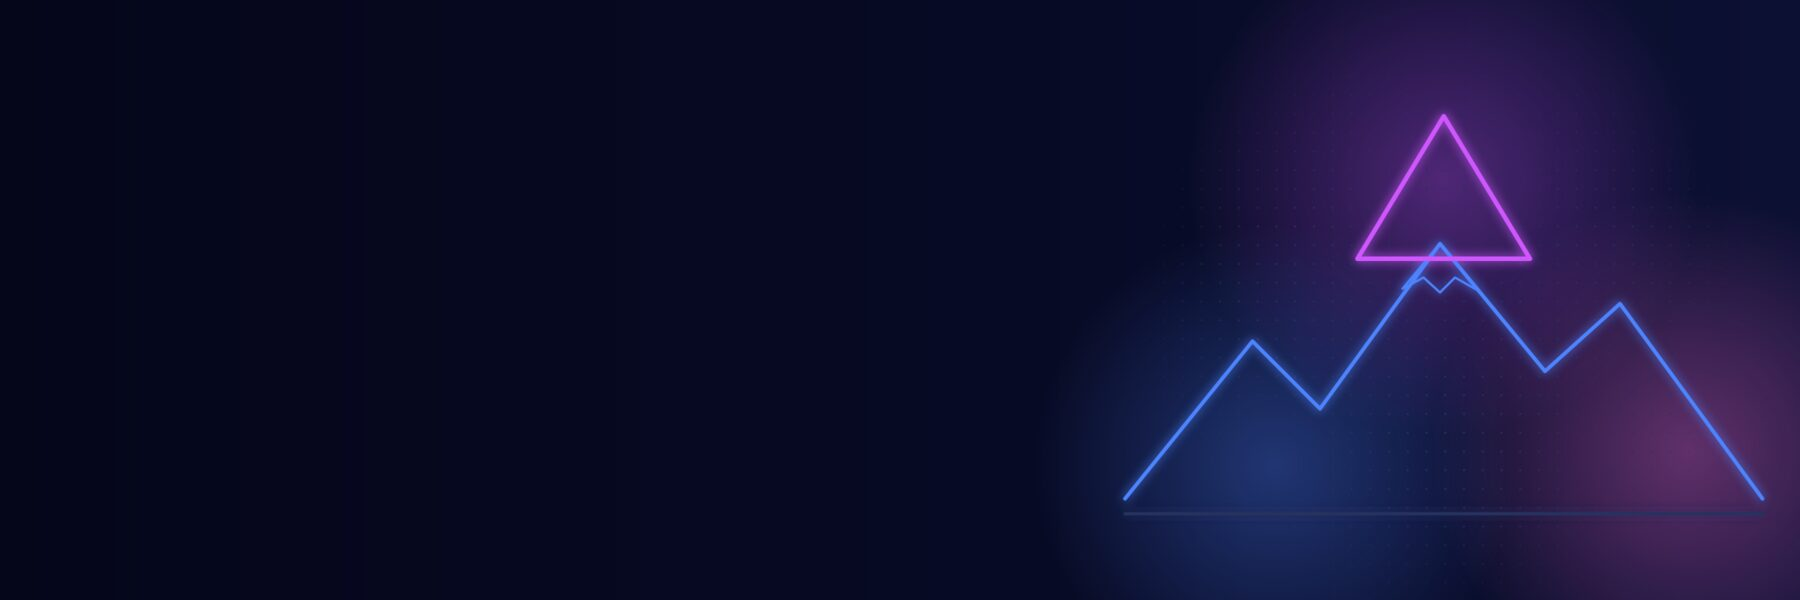
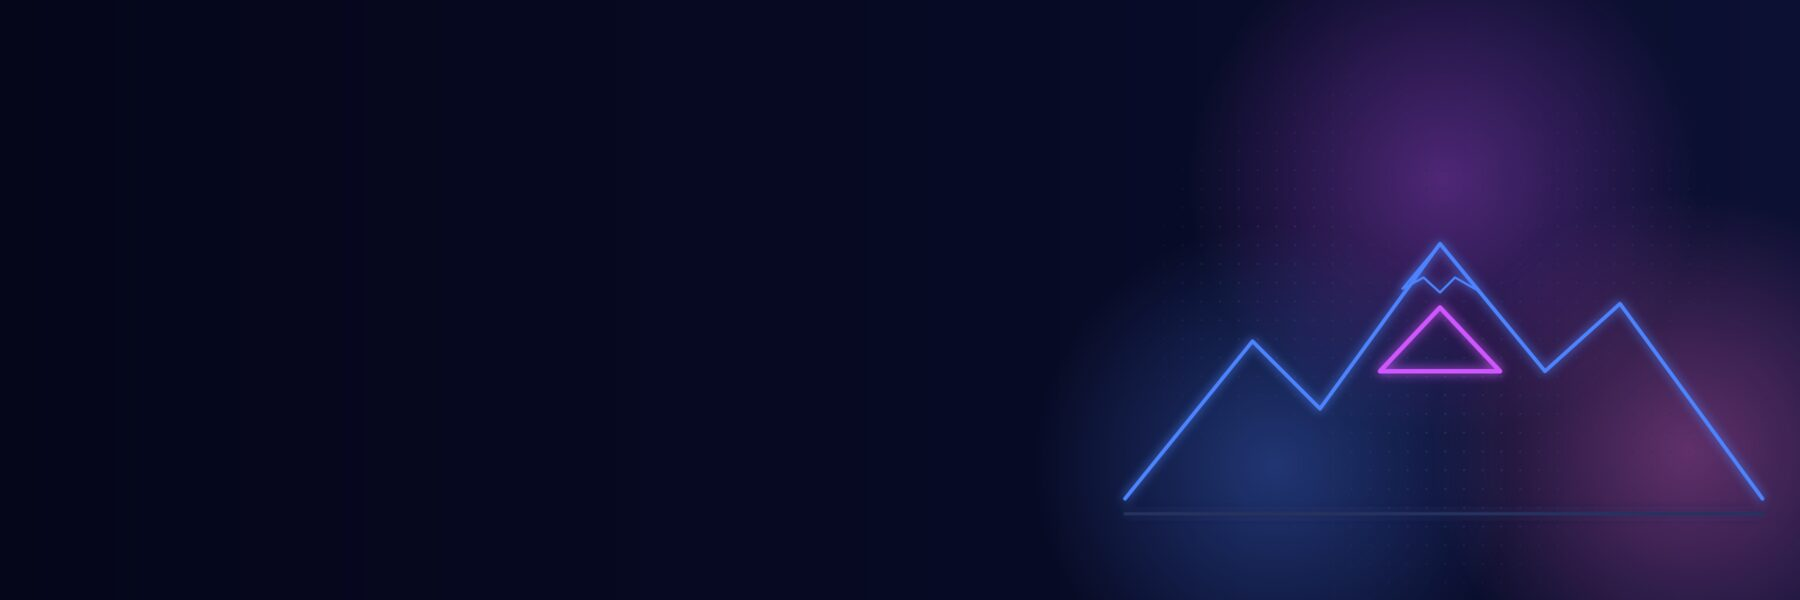
Homepage repositioning, AI Integration, examples, data page and founder photo
- Homepage: new headline and subline, "One Connected System" services with
  pillar labels, "What This Looks Like" example cases; Sergei strip and
  View All Services button removed
- AI Tools renamed AI Integration (/services/ai-tools/ redirects)
- Services page lists each service plus a one-time vs ongoing explainer;
  Operations Automation says who does what; Development Management stresses
  ongoing value
- New pages: sample check-up report, How We Handle Your Data
- About: founder photo beside shorter text, triangle inside the mountains,
  email removed from Let's Talk, tighter spacing
- Who We Help page fully dark; bigger logo; larger text on phones
- Ignore the local Photo folder

Changed region(s): [[0.7467, 0.18, 0.8711, 0.45], [0.7467, 0.51, 0.84, 0.63]]

diff --git a/assets/scss/style.scss b/assets/scss/style.scss
@@ -154,5 +154,61 @@
 @media (max-width: 767.98px) { .hero-image[style*=".svg"] { background-position: 15% center; } }
 // Service icons are CSS backgrounds (decorative); same 40px square the theme gave the img
 .service-summary .service-image { height: 40px; background: center / contain no-repeat; }
-// Homepage: what we do and where, as a small first line of the H1 so search engines read it with the slogan
-.hero-image .hero-text .hero-topic { display: block; font-size: 1.1rem; font-weight: 400; text-transform: uppercase; letter-spacing: .08em; margin-bottom: .75rem; }
+// Homepage: the subline right under the headline, set apart from the intro below it
+.hero-image .hero-text .hero-tagline { font-weight: 600; margin-bottom: .5rem; }
+// Logo: the "Glow Wild" sign at its full drawn size (theme had 120px); phones show the whole sign too, not just the mark
+.logo { display: block; width: 170px; @include media-breakpoint-up(sm) { width: 210px; } }
+.logo-mobile { display: none; }
+// Phones: larger body and card text (theme set much of it at 14-15px)
+@media (max-width: 767.98px) {
+  body { font-size: 1.0625rem; }
+  .service-summary .service-content p, .work-summary .work-content p, .footer ul li, .sub-footer .sub-footer-inner ul li { font-size: 1rem; }
+  .button { font-size: 16px; }
+}
+.visually-hidden { @include visually-hidden(); }
+// Service step label ("Visibility", ...) and the homepage line joining them, in each service's WILD color
+.service-pillar { text-transform: uppercase; letter-spacing: .1em; font-size: .8rem !important; font-weight: 700; margin-bottom: 0; }
+.system-flow { font-size: 1.25rem; font-weight: 700; }
+@each $i, $c in (0: $wild-green-deep, 1: $wild-pink-deep, 2: $wild-blue-deep, 3: $wild-purple-deep) {
+  .service-summary.wild-#{$i} .service-pillar, .service-detail.wild-#{$i} .service-pillar, .system-flow .wild-#{$i} { color: $c !important; }
+  .service-detail.wild-#{$i} { border-left: 4px solid $c; h2 a { color: $c; } }
+  .example-card.wild-#{$i} { border-top: 4px solid $c; .example-label { color: $c; } }
+}
+// Services page: one block per service
+.service-detail {
+  padding: 4px 0 4px 20px; margin-bottom: 40px;
+  h2 { font-size: 1.75rem; margin-bottom: 4px; }
+  .service-detail-sub { display: block; font-size: 1rem; font-weight: 400; color: #555; margin-top: 4px; }
+  .service-detail-lead { font-weight: 600; }
+}
+// Homepage examples
+.example-card {
+  height: 100%; padding: 24px; background: #f5f6fb; border-radius: 0 0 12px 12px;
+  .example-label { text-transform: uppercase; letter-spacing: .1em; font-size: .8rem; font-weight: 700; margin-bottom: 6px; }
+  ol { padding-left: 20px; list-style: decimal; }
+  li { margin-bottom: 6px; }
+  .example-result { font-weight: 600; }
+  a { text-decoration: underline; }
+}
+// Markdown tables (services explainer, sample check-up)
+.content table { width: 100%; margin: 16px 0 24px; border-collapse: collapse; font-size: .95rem; }
+.content th, .content td { text-align: left; vertical-align: top; padding: 10px 12px; border-bottom: 1px solid #d5d8ea; }
+.content thead th { border-bottom: 2px solid $primary; }
+// Who We Help list: the whole page dark like its banner and card pictures; titles in the neon colors
+.page-work-list {
+  .wrapper { background: #060818; }
+  .work-summary .work-content { background: #0d1030; }
+  .work-summary .work-content p, .work-summary .work-content { color: #e8e9f5; }
+}
+@each $i, $c in (0: $wild-green, 1: $wild-pink, 2: $wild-blue, 3: $wild-purple) {
+  .page-work-list .work-summary.wild-#{$i} .work-title a { color: $c; }
+  .page-work-list .work-summary.wild-#{$i} .work-content { border-bottom-color: $c; }
+}
+// About strips with a `photo`: above the text on phones, beside it on desktop (a reversed row puts it on the right).
+// Its background is painted the strip's navy, so it blends in without a frame; on desktop it may run under the text's edge
+.strip-photo { margin-bottom: 24px; img { display: block; width: 100%; max-width: 340px; height: auto; } }
+@media (min-width: 768px) {
+  .row:has(> .strip-photo) { flex-direction: row-reverse; align-items: center; }
+  .strip-photo { margin-bottom: 0; img { max-width: none; width: 120%; margin-left: -20%; } }
+  .strip-photo + div { position: relative; z-index: 1; }
+}

diff --git a/layouts/index.html b/layouts/index.html
@@ -5,44 +5,50 @@
 
 {{ define "main" }}
 
-{{ partial "hero-image-fullscreen.html" (dict "background" .Params.heroBackground "topic" .Params.heroTopic "heading" .Params.heroHeading "subheading" .Params.heroSubHeading "content" .)}}
-
-{{ $headless := .Site.GetPage "/homepage" }}
-{{ $reusablePages := $headless.Resources.ByType "page" }}
-{{ $reusablePages := sort $reusablePages ".Params.weight" }}
-{{ range first 1 $reusablePages }}
-{{ $phone := .Params.phoneBackground }}
-<div class="strip bg-cover bg-position-top bg-overlay wild-0"{{ with .Params.background }} style="background-image: url('{{ . | relURL }}');{{ with $phone }} --bg-phone: url('{{ . | relURL }}');{{ end }}"{{ end }}>
-  <div class="container pt-17 pb-17">
-    <div class="row">
-      <div class="col-12 col-md-6 offset-md-6">
-        <h2 class="text-primary text-capitalize">{{ .Title }}</h2>
-        {{ .Content }}
-        <a class="button" href="{{ .Params.buttonLink | relURL }}">{{ .Params.button }}</a>
-      </div>
-    </div>
-  </div>
-</div>
-{{ end }}
+{{ partial "hero-image-fullscreen.html" (dict "background" .Params.heroBackground "tagline" .Params.heroTagline "heading" .Params.heroHeading "subheading" .Params.heroSubHeading "content" .)}}
 
 {{ $services := where (where .Site.RegularPages "Type" "services") ".Params.featured" true }}
 {{if gt (len $services) 0}}
 <div class="container pt-8 pb-8 pb-md-14 pt-md-14">
   <div class="row justify-content-start">
-    <div class="col-12">
-      <h2 class="text-center mb-3">{{ with .Site.GetPage "/services/" }}{{ .Title | default "Our Services" }}{{ end }}</h2>
+    <div class="col-12 text-center mb-3">
+      <h2>One Connected System</h2>
+      {{/* The four services as steps of one system: each card's `pillar` from its front matter */}}
+      <p class="system-flow">{{ range $i, $s := sort $services ".Params.weight" }}{{ if $i }}<span aria-hidden="true"> → </span>{{ end }}<span class="wild-{{ mod (sub $s.Weight 1) 4 }}">{{ $s.Params.pillar }}</span>{{ end }}</p>
+      <p>Customers find you, smart tools answer them, the admin runs itself, and we keep improving what works. Each service feeds the next.</p>
     </div>
     {{ range first 4 (sort $services ".Params.weight") }}
     <div class="col-12 col-md-6 mb-1">
       {{ .Render "summary" }}
     </div>
     {{ end }}
-    <div class="col-12 text-center">
-      <a class="button button-primary" href="{{ .Site.BaseURL }}services/">View All Services</a>
-    </div>
   </div>
 </div>
 {{end}}
+
+{{/* Demonstrations, not client results: data/examples.yaml */}}
+{{ with hugo.Data.examples }}
+<div class="container pb-8 pb-md-14">
+  <div class="row">
+    <div class="col-12 text-center mb-3">
+      <h2>What This Looks Like</h2>
+      <p>Three examples of how it works day to day. These are demonstrations, not client stories.</p>
+    </div>
+    {{ range $i, $e := . }}
+    <div class="col-12 col-lg-4 mb-3">
+      <div class="example-card wild-{{ mod $i 4 }}">
+        <p class="example-label">Example</p>
+        <h3 class="h4">{{ $e.title }}</h3>
+        <p>{{ $e.problem }}</p>
+        <ol>{{ range $e.steps }}<li>{{ . }}</li>{{ end }}</ol>
+        <p class="example-result">{{ $e.result }}</p>
+        {{ with $e.link }}<a href="{{ .url | relURL }}">{{ .text }}</a>{{ end }}
+      </div>
+    </div>
+    {{ end }}
+  </div>
+</div>
+{{ end }}
 
 {{ with hugo.Data.testimonials }}
 <div class="container pb-8 pb-md-14">
@@ -60,7 +66,8 @@
 </div>
 {{ end }}
 
-{{ range first 1 (after 1 $reusablePages) }}
+{{ $headless := .Site.GetPage "/homepage" }}
+{{ range sort ($headless.Resources.ByType "page") ".Params.weight" }}
 <div class="strip bg-primary bg-cover bg-position-top bg-overlay"{{ with .Params.background }} style='background-image: url("{{ . | relURL }}");'{{ end }}>
   <div class="container pt-8 pb-8 pb-md-12 pt-md-12">
     <div class="row justify-content-center">

diff --git a/layouts/services/list.html b/layouts/services/list.html
@@ -1,0 +1,31 @@
+{{ define "header_css" }}{{ end }}
+{{ define "body_classes" }}page-services-list{{ end }}
+{{ define "header_classes" }}{{ end }}
+
+{{ define "main" }}
+{{ partial "hero-image-setheight.html" (dict "background" .Params.heroBackground "heading" .Params.heroHeading "subheading" .Params.heroSubHeading "content" .)}}
+
+{{/* One row per service: what it is, its plain-words heading, its first paragraph and a link to the full list */}}
+<div class="container pt-6 pt-md-10">
+  {{ range .Pages.ByWeight }}
+  <div class="service-detail wild-{{ mod (sub .Weight 1) 4 }}">
+    {{ with .Params.pillar }}<p class="service-pillar">{{ . }}</p>{{ end }}
+    <h2><a href="{{ .RelPermalink }}">{{ .Title }}</a>{{ with .Params.heroHeading }}<span class="service-detail-sub">{{ . }}</span>{{ end }}</h2>
+    <p class="service-detail-lead">{{ .Params.heroSubHeading }}</p>
+    {{ with findRE `(?s)<p>.*?</p>` .Content 1 }}{{ index . 0 | safeHTML }}{{ end }}
+    <a href="{{ .RelPermalink }}">See what’s included<span class="visually-hidden"> in {{ .Title }}</span> →</a>
+  </div>
+  {{ end }}
+</div>
+
+{{ with .Content }}
+<div class="container pb-6 pb-md-10">
+  <div class="row">
+    <div class="col-12 col-lg-9">
+      <div class="content">{{ . }}</div>
+      {{ partial "cta.html" "mt-2" }}
+    </div>
+  </div>
+</div>
+{{ end }}
+{{ end }}

diff --git a/layouts/pages/about.html b/layouts/pages/about.html
@@ -11,9 +11,15 @@
 {{ range $i, $_ := $subpages }}
 {{ $phone := .Params.phoneBackground }}
 <div class="strip bg-cover bg-position-top bg-overlay wild-{{ mod $i 4 }} align-{{ .Params.align | default "left" }}"{{ with .Params.background }} style="background-image: url('{{ . | relURL }}');{{ with $phone }} --bg-phone: url('{{ . | relURL }}');{{ end }}"{{ end }}>
-  <div class="container pt-17 pb-17">
+  {{/* Tall padding only where a background picture needs the room; text and photo strips sit closer together */}}
+  <div class="container {{ if .Params.background }}pt-17 pb-17{{ else }}pt-6 pb-6{{ end }}">
     <div class="row">
-      <div class="col-12 col-md-6 {{ if eq .Params.align "right" }}offset-md-6{{ end }}">
+      {{ if .Params.photo }}
+      <div class="col-12 col-md-6 strip-photo">
+        <img src="{{ .Params.photo | relURL }}" alt="{{ .Params.photoAlt }}" width="840" height="840" loading="lazy" decoding="async">
+      </div>
+      {{ end }}
+      <div class="col-12 col-md-6 {{ if and (eq .Params.align "right") (not .Params.photo) }}offset-md-6{{ end }}">
         <h2 class="text-primary text-capitalize">{{ .Title }}</h2>
         {{ .Content }}
         {{ if .Params.button }}

diff --git a/layouts/contact/contact.html b/layouts/contact/contact.html
@@ -54,7 +54,7 @@
         <input type="hidden" name="_subject" value="New check-up request from glowilds.com">
         <input type="text" name="_gotcha" tabindex="-1" autocomplete="off" aria-hidden="true" style="display:none">
         <button class="button contact-submit" type="submit">Book a Free Check-Up</button>
-        <p class="contact-privacy-note">We only use your details to reply to you. See our <a href="{{ "privacy/" | relURL }}">Privacy Policy</a>.</p>
+        <p class="contact-privacy-note">We only use your details to reply to you. See our <a href="{{ "privacy/" | relURL }}">Privacy Policy</a> and <a href="{{ "your-data/" | relURL }}">how we handle your data</a>.</p>
       </form>
       {{ end }}
     </div>

diff --git a/layouts/partials/footer.html b/layouts/partials/footer.html
@@ -14,6 +14,7 @@
             <li><a href="{{ .Site.BaseURL }}">Home</a></li>
             <li><a href="{{ .Site.BaseURL }}contact/">Contact</a></li>
             <li><a href="{{ .Site.BaseURL }}faq/">FAQ</a></li>
+            <li><a href="{{ .Site.BaseURL }}your-data/">Your Data</a></li>
             <li><a href="{{ .Site.BaseURL }}privacy/">Privacy</a></li>
             <li><a href="{{ .Site.BaseURL }}terms/">Terms</a></li>
             <li class="copyright">{{.Site.Title}}</li>

diff --git a/layouts/partials/hero-image-fullscreen.html b/layouts/partials/hero-image-fullscreen.html
@@ -1,7 +1,8 @@
 <div class="hero-image hero-image-fullscreen" style="background-image: url('{{ .background | relURL }}');">
   <div class="container ">
     <div class="hero-text">
-      <h1>{{ with .topic }}<span class="hero-topic">{{ . }}</span> {{ end }}{{ .heading }}</h1>
+      <h1>{{ .heading }}</h1>
+      {{ with .tagline }}<p class="hero-tagline">{{ . }}</p>{{ end }}
       <p>{{ .subheading }}</p>
       {{ partial "cta.html" "mt-2" }}
     </div>

diff --git a/layouts/services/summary.html b/layouts/services/summary.html
@@ -4,6 +4,7 @@
   <div class="service-image" style="background-image: url('{{ .Params.icon | relURL }}')"></div>
   {{ end }}
   <div class="service-content">
+    {{ with .Params.pillar }}<p class="service-pillar">{{ . }}</p>{{ end }}
     <h2 class="service-title">
       <a href="{{ .Permalink }}">{{ .Title }}</a>
     </h2>

diff --git a/design/drawings.py b/design/drawings.py
@@ -340,11 +340,11 @@ def hero_how():
 
 
 def hero_about():
-    """Colorado mountains with a glowing triangle above: stability, quality, support."""
+    """Colorado mountains with a glowing triangle inside the main peak: stability, quality, support."""
     a = f'<path d="M0 640 L170 430 L260 520 L420 300 L560 470 L660 380 L850 640" stroke="{B}"/>'
     a += f'<path d="M370 360 L420 300 L470 362 L440 345 L420 365 L398 345 Z" stroke="{B}" stroke-width="3"/>'
     a += f'<path d="M0 660 H850" stroke="{FAINT}" stroke-width="4"/>'
-    a += f'<path d="M425 130 L540 320 L310 320 Z" stroke="{U}" stroke-width="6"/>'
+    a += f'<path d="M420 385 L500 470 L340 470 Z" stroke="{U}" stroke-width="6"/>'  # the logo's triangle, glowing inside the main peak
     return hero_canvas(a, ((1925, 240, 340, U), (1700, 620, 320, B), (2250, 600, 340, P)))
 
 

diff --git a/CLAUDE.md b/CLAUDE.md
@@ -18,9 +18,9 @@ Pushing to `main` builds the site and publishes it to GitHub Pages (the custom d
 ## Architecture
 
 - **Theme overrides:** files under `layouts/` shadow the same path in `themes/hugo-hero-theme/layouts/`. To change a theme template, copy it into `layouts/` and edit the copy; never edit the theme. The theme copies only exist where something was changed.
-- **Headless bundles:** homepage sections come from `content/homepage/*.md`, and the About and How It Works page sections from `content/pages/{about,process}/content*.md`. They are ordered by `weight`, with a `background`, `button` and `buttonLink` in front matter, and rendered as "strips" by `layouts/index.html` and `layouts/pages/about.html`. Both pages use `layout: 'about'`. Optional `phoneBackground` (About and How It Works strips, and the homepage's first strip): a 2:1 picture that phones show whole above the text; setting it also makes desktop fit `background` whole and left-aligned instead of covering the strip. Use it for composed graphics, not photos. The How It Works pictures (`static/images/process-*.svg`), the Who We Help card pictures (`static/work/*-thumb.svg`) and the page banners (`static/images/hero-*.svg` plus `.jpg` copies for link previews, made with ImageMagick) are neon line drawings generated by `python3 design/drawings.py`; edit the script and rerun it rather than editing the SVGs, and rerun it after changing a step's `align` (it reads `align` to put the drawing on the other side). On desktop the picture sits opposite the text: the strip gets an `align-<left|right>` class from its `align`.
-- **Collections:** `content/services/` and `content/work/` (the "Who We Help" industries). Services marked `featured: true` show on the homepage. Each page sets `heroHeading`, `heroSubHeading` and `heroBackground`. Their single pages share `layouts/_default/section-single.html`, picked by a `cascade` in each section's `_index.md`. Cards (and service icons) take a WILD color from `weight`: 1 green, 2 pink, 3 blue, 4 purple.
-- **Site-wide data:** `data/contact.yaml` (email, phone, `formAction`, `owner`, `googleProfile` (added with the social links as `sameAs` in the homepage JSON-LD), address, `city`/`region` for the structured data, `areaServed` towns, hours) and `data/testimonials.yaml`. Templates hide a block while its value is empty: the phone, the contact form and the testimonials section all stay hidden until filled. Keep that pattern for new optional content. Testimonials must be real quotes.
+- **Headless bundles:** homepage sections come from `content/homepage/*.md`, and the About and How It Works page sections from `content/pages/{about,process}/content*.md`. They are ordered by `weight`, with a `background`, `button` and `buttonLink` in front matter, and rendered as "strips" by `layouts/index.html` and `layouts/pages/about.html`. Both pages use `layout: 'about'`. Optional `phoneBackground` (About and How It Works strips): a 2:1 picture that phones show whole above the text; setting it also makes desktop fit `background` whole and left-aligned instead of covering the strip. Use it for composed graphics, not photos. For a photo, set `photo` and `photoAlt` instead (About strips only): it sits beside the text (above it on phones), as on Meet the Founder. The How It Works pictures (`static/images/process-*.svg`), the Who We Help card pictures (`static/work/*-thumb.svg`) and the page banners (`static/images/hero-*.svg` plus `.jpg` copies for link previews, made with ImageMagick) are neon line drawings generated by `python3 design/drawings.py`; edit the script and rerun it rather than editing the SVGs, and rerun it after changing a step's `align` (it reads `align` to put the drawing on the other side). On desktop the picture sits opposite the text: the strip gets an `align-<left|right>` class from its `align`.
+- **Collections:** `content/services/` and `content/work/` (the "Who We Help" industries). Services marked `featured: true` show on the homepage, under "One Connected System" with their `pillar` label (Visibility, Intelligence, Automation, Improvement). The Services page (`layouts/services/list.html`) lists each with its first paragraph, then the `_index.md` body. Each page sets `heroHeading`, `heroSubHeading` and `heroBackground`. Their single pages share `layouts/_default/section-single.html`, picked by a `cascade` in each section's `_index.md`. Cards (and service icons) take a WILD color from `weight`: 1 green, 2 pink, 3 blue, 4 purple.
+- **Site-wide data:** `data/contact.yaml` (email, phone, `formAction`, `owner`, `googleProfile` (added with the social links as `sameAs` in the homepage JSON-LD), address, `city`/`region` for the structured data, `areaServed` towns, hours), `data/testimonials.yaml`, and `data/examples.yaml` (the homepage "What This Looks Like" demonstrations; keep them labeled as examples, never presented as client results). Templates hide a block while its value is empty: the phone, the contact form and the testimonials section all stay hidden until filled. Keep that pattern for new optional content. Testimonials must be real quotes.
 - **Booking button:** `layouts/partials/cta.html`, called as `{{ partial "cta.html" "<spacing class>" }}` from the homepage hero and the service and industry pages. The contact form's submit button has its own copy of the label.
 - **Meta and SEO:** `layouts/partials/seo.html` adds the canonical link plus homepage-only JSON-LD built from `data/contact.yaml`. Opening hours go into that JSON-LD only when written like `8:00am`; other values are skipped. `/llms.txt` (a plain-text summary for AI assistants) is built from `layouts/home.llms.txt`. Every page, the homepage included, gets its `<meta>` tags from `layouts/partials/meta-default.html`; the homepage's description and `seoTitle` are in `content/_index.md`.
 - **Images:** pages load `.webp` from `static/`. The `og:image` swaps `.webp` for `.jpg` when a JPG copy exists, so a hero image should ship as both `.webp` and `.jpg`. With only a `.webp`, the preview falls back to the WebP.

diff --git a/content/sample-check-up.md b/content/sample-check-up.md
@@ -1,0 +1,40 @@
+---
+title: 'Sample Business Check-Up'
+seoTitle: 'Sample Free Business Check-Up Report'
+description: 'An example of the free business check-up report every new Glow Wild client gets: what we check, what we found and what to fix first.'
+date: 2026-11-01
+---
+
+**This is an example.** "Maple Street Bakery" is made up. Your check-up looks at your own business the same way and comes back in the same plain format.
+
+## What we checked
+
+- How the business shows up when people search on Google, Google Maps, Apple Maps, Yelp and AI assistants such as ChatGPT
+- The website: speed on a phone, clear pages, contact details and the behind-the-scenes business data search engines read
+- Calls, messages and bookings: what happens when the owner can't pick up
+- Reviews: how many, how recent, and whether they get replies
+- The weekly admin: what takes the owner's time and could run on its own
+
+## What we found
+
+| Area | What we saw | Why it matters |
+|---|---|---|
+| Phone number | Google shows one number, Yelp and the website another | Customers call a line nobody answers |
+| Hours | Google still shows last year's holiday hours | People skip a visit they think is closed |
+| AI assistants | One assistant lists the wrong street | AI answers are now where many people look first |
+| Website | Takes about 6 seconds to load on a phone; no menu page | Visitors leave before they see what's for sale |
+| Missed calls | Calls during the morning rush go to a full voicemail | Each missed call can be a lost order |
+| Reviews | 41 reviews, the newest from 5 months ago, no replies | Recent, answered reviews build trust |
+| Admin | About 4 hours a week confirming custom-cake orders by phone | Time that could go to baking or selling |
+
+## What to fix first
+
+1. **Make the phone number and hours the same everywhere.** Start with Google, then Apple Maps, Yelp and the website. Small job, biggest effect.
+2. **Text back missed calls.** A missed call gets a text within seconds and can book a pickup time.
+3. **Ask for reviews after each custom order,** and reply to every review.
+4. **Speed up the website and add the menu.**
+5. **Confirm custom-cake orders by text** instead of by phone.
+
+## What happens next
+
+You get this report for free. Sergei goes through it with you on a call, answers your questions and explains which fixes you can do yourself. If you want help with the rest, he tells you what it would cost. There's no pressure to sign up.

diff --git a/content/pages/about/content2.md b/content/pages/about/content2.md
@@ -1,13 +1,24 @@
 ---
 title: 'Meet the Founder'
-date: 2026-10-29
+date: 2026-11-02
 weight: 2
 background: ''
+# A photo beside the text (above it on phones); photoAlt describes it for screen readers
+photo: 'images/sergei.webp'
+photoAlt: 'Sergei, founder of Glow Wild'
 align: left
 ---
 
-Hi, I’m Sergei. I’ve spent 10 years working every job in business, from the ground floor up to CEO, so I know what it takes to run one day to day.
+Hi, I’m Sergei, founder of Glow Wild.
 
-I formed WILD LLC to buy a business. Right before closing, I found a risk no one else wanted to see and made the hard, unpopular call to walk away. We lost some of what we’d put in, but it saved our investors from losing far more. I kept the company. It became home to my eBay store, Wild Alice (99.4% positive feedback), and now to Glow Wild, its digital arm here in Parker, Colorado.
+I’ve spent 10 years learning how businesses really work, from hands-on operations to executive leadership, and how small problems turn into expensive ones.
 
-I designed the logo myself: a glowing triangle that bends into a “G.” Its three sides stand for what every client gets from me: stability, quality and support. The glow is the goal, helping local businesses shine where people look, on Google and in AI. I do the homework first, set everything up, explain it in plain English, and stick around to keep it working.
+I formed WILD LLC to acquire a business. Just before closing, I uncovered a serious risk and walked away. It wasn’t popular, and it cost us money, but it protected our investors from a much bigger loss. It taught me that **doing the homework matters more than making the sale.**
+
+I kept WILD LLC and built Wild Alice, my eBay store with 99.4% positive feedback, and now Glow Wild, helping businesses here in Parker, Colorado, make better use of websites, AI, and technology.
+
+I designed the logo myself: a glowing triangle shaped into a “G.” Its three sides stand for **stability, quality, and support.** **And the glow? That’s the goal:** helping local businesses stand out and stay competitive.
+
+I start with your business, not the technology. I do the research, explain things in plain English, build what fits, and stick around to make sure it keeps working.
+
+**No unnecessary complexity. Just practical solutions and someone who stands behind the work.**
